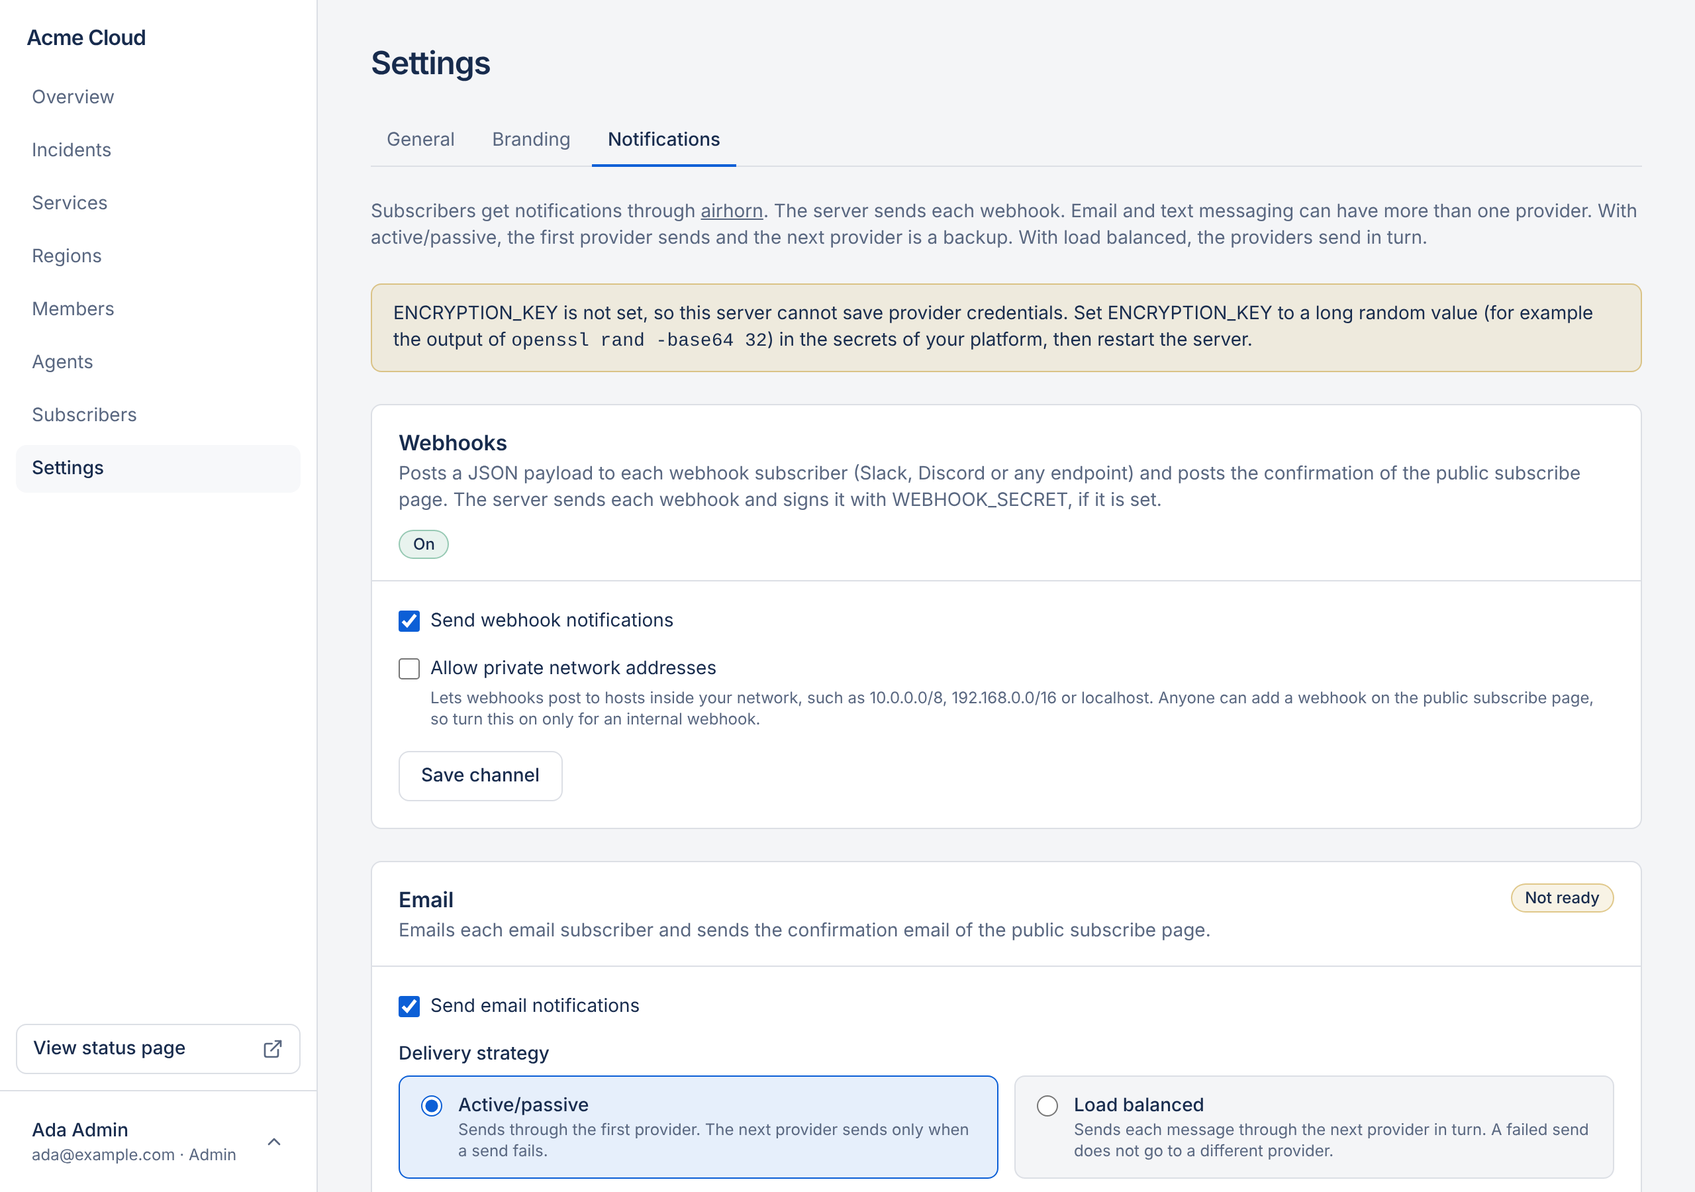
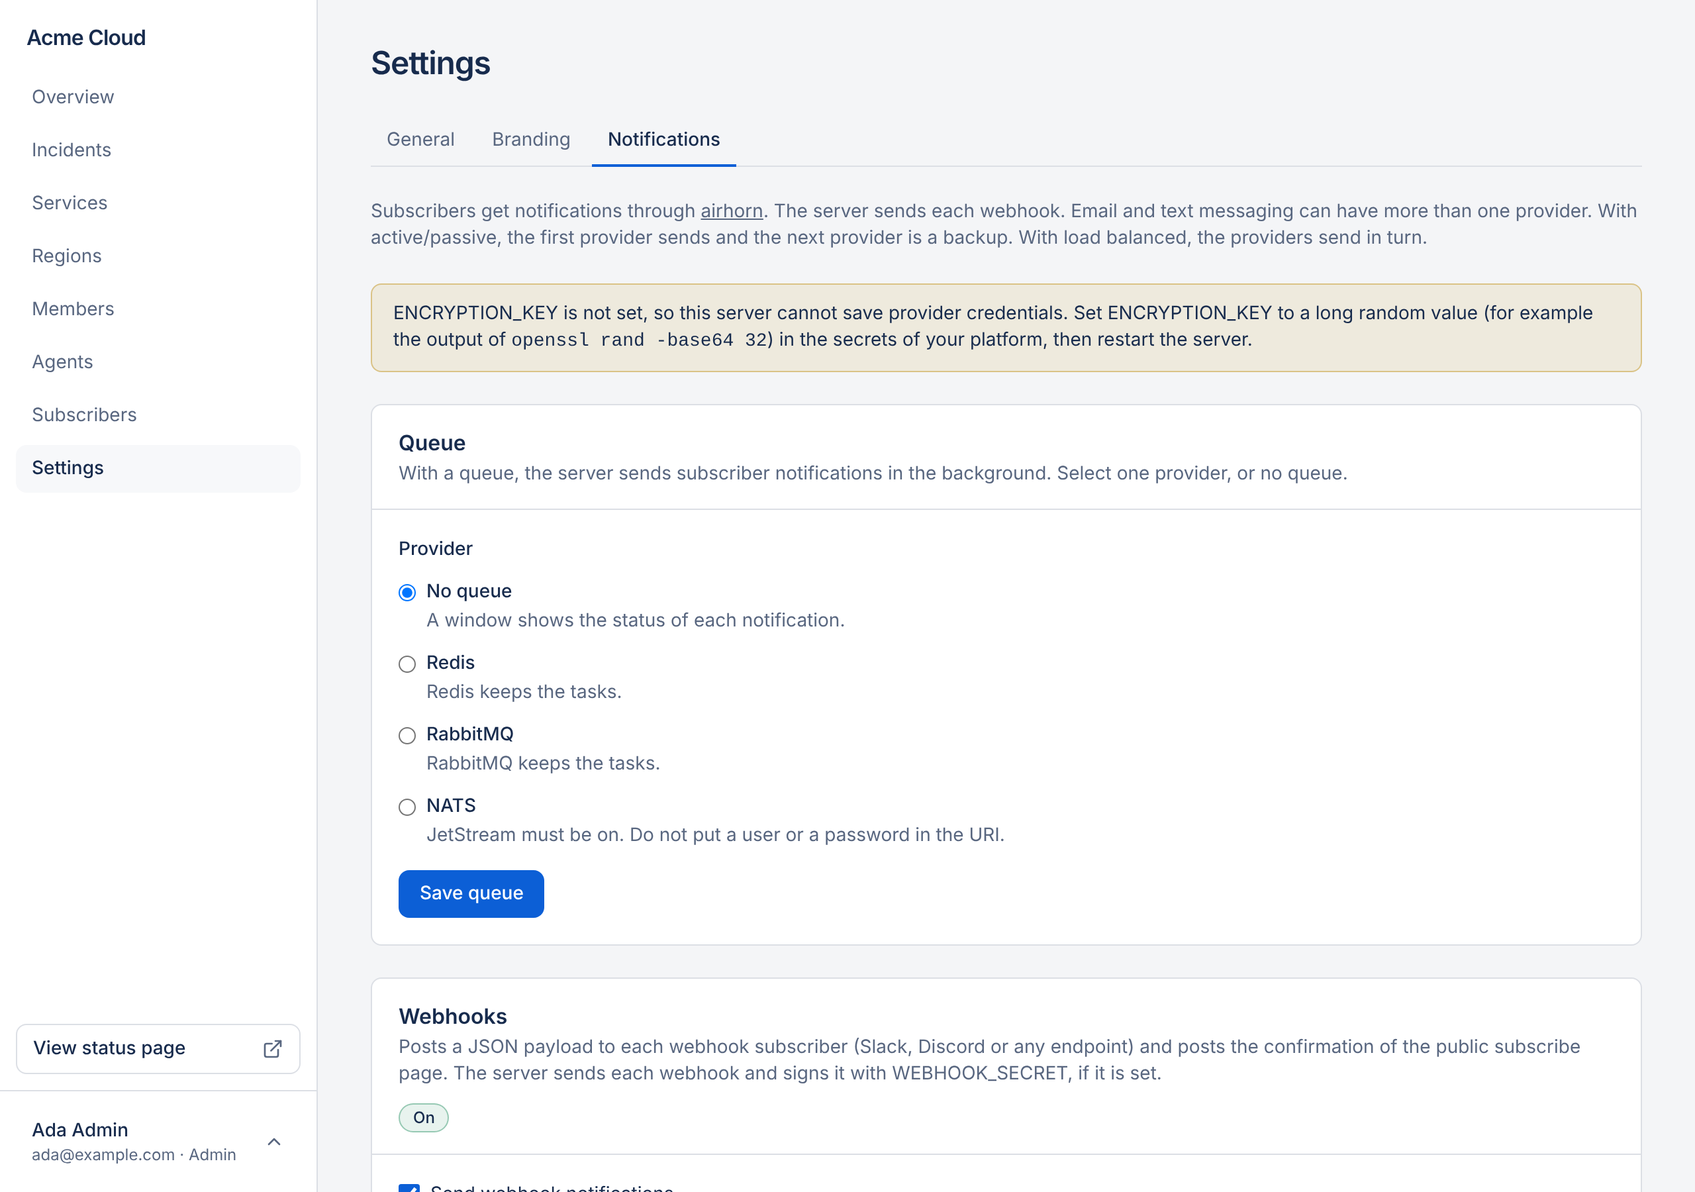
Document the notification queue and the region rules from main
Main added a notification queue (#90) and changed the regions of each
service (#95). The docs now describe both.

- Notification providers, Settings, Incidents and Cloudflare tell how
  to select a Redis, RabbitMQ or NATS queue and how the portal shows
  the send progress.
- The region pages no longer describe Global. When a region exists,
  each affected service needs one or more regions. A region delete
  fails while an open incident needs it.
- The OpenAPI descriptions of the incident regions follow the new
  rules. The copy in the site is new.
- The Notifications screenshot shows the Queue card.

Claude-Session: https://claude.ai/code/session_017rB6hG7aiHwE1nQRMQ2u3D

diff --git a/packages/app/src/lib/public-api.ts b/packages/app/src/lib/public-api.ts
@@ -36,7 +36,9 @@ export const publicIncidentSchema = z
 		impact: impactSchema.describe("The impact of the latest post."),
 		regions: z
 			.array(regionRefSchema)
-			.describe("The regions of the incident. An empty list means Global."),
+			.describe(
+				"The regions of the incident. The list is empty when the page has no regions.",
+			),
 		services: z
 			.array(z.string())
 			.describe("The ids of the affected services that the page shows."),
@@ -45,7 +47,7 @@ export const publicIncidentSchema = z
 				z.object({ serviceId: z.string(), regions: z.array(regionRefSchema) }),
 			)
 			.describe(
-				"The regions of each affected service. A service that is not in the list is Global.",
+				"The regions of each affected service. A service that is not in the list has no region.",
 			),
 		startedAt: timestamp,
 		resolvedAt: timestamp.nullable(),

diff --git a/packages/website/site/docs/getting-started/concepts.md b/packages/website/site/docs/getting-started/concepts.md
@@ -14,8 +14,8 @@ This page gives the meaning of each word that the docs use. The portal, the API 
 | **Service**        | A part of your product that visitors care about, for example "API" or "Dashboard". Each service has a status.                                                                                                                                                                               |
 | **Group**          | A name that puts services together on the status page, for example "Core platform".                                                                                                                                                                                                         |
 | **Service status** | One of `operational`, `degraded_performance`, `partial_outage`, `major_outage` or `under_maintenance`. An open incident or maintenance sets it. An editor can also set it by hand.                                                                                                          |
-| **Region**         | A named area, for example "US East". With regions, the status page shows an Overview tab and a tab for each region. A service in an incident can be in one region, more than one region, or no region.                                                                                      |
-| **Global**         | No region. A Global outage shows only on the Overview tab. A region tab shows an outage only for the services in that region.                                                                                                                                                               |
+| **Region** | A named area, for example "US East". With regions, the status page shows an Overview tab and a tab for each region. When a region exists, each affected service of an incident needs one or more regions. For an outage in all regions, select all regions. |
+| **Overview** | The first tab of a status page with regions. It shows each outage. A region tab shows an outage only for the services in that region. |
 | **Uptime**         | The part of the tracked time that a service was up. A partial outage counts as 30% downtime and a major outage as 100%. Degraded performance and maintenance do not count. The status page shows one bar for each day. The uptime window is 90 days by default, and an admin can change it. |
 
 ## Incidents and maintenance
@@ -48,3 +48,4 @@ This page gives the meaning of each word that the docs use. The portal, the API 
 | **Channel**           | A way to send a notification: webhooks, email or text messages. Each channel has an on/off switch.                                        |
 | **Provider**          | The service that sends email or text messages for a channel: SendGrid, Amazon SES, Twilio or Amazon SNS.                                  |
 | **Delivery strategy** | How a channel with more than one provider sends: active/passive (fail-over) or load balanced (round-robin).                               |
+| **Queue** | An optional Redis, RabbitMQ or NATS service. With a queue, the server sends notifications in the background. |

diff --git a/packages/website/site/docs/guide/services.md b/packages/website/site/docs/guide/services.md
@@ -67,18 +67,18 @@ The portal deletes the service and its uptime history. It also removes the servi
 
 ## About regions
 
-Global is the default region. Global is not a region on the **Regions** page.
-
 - With no regions, the status page is one page.
 - With regions, the status page shows an **Overview** tab and one tab for each region.
 
-Regions belong to each affected service of an incident, not to the service itself. When you declare an incident or post an update, you select the regions of each affected service. A service with no region is Global.
+Regions belong to each affected service of an incident, not to the service itself. When you declare an incident or post an update, you select the regions of each affected service.
+
+When a region exists, each affected service needs one or more regions. For an outage in all regions, select all regions.
 
 The tabs show different data:
 
 - **Overview** shows each outage. It shows the status of each service for all incidents.
 - A region tab shows each service. On a region tab, an incident counts only for a service that has that region.
-- An incident for a Global service shows only on **Overview**.
+- A service with no region shows only on **Overview**. This occurs on an incident from before the first region, or on a closed incident after a region delete.
 - A status that you set by hand shows on all tabs.
 
 ## Add a region
@@ -90,7 +90,7 @@ You must be an editor or an admin.
 3. Optional: type a number in **Order**. A region with a lower number shows first.
 4. Select **Add region**.
 
-A region name can have 80 characters or fewer. Each name must be different. You cannot use the name "Global".
+A region name can have 80 characters or fewer. Each name must be different.
 
 ## Set the regions of an incident
 
@@ -98,7 +98,7 @@ You must be an editor or an admin.
 
 1. Declare an incident, schedule maintenance, or open the post form of an incident.
 2. Select an affected service.
-3. Under "Regions for …", select one or more regions. Select no region for Global.
+3. Under "Regions for …", select one or more regions. For an outage in all regions, select all regions.
 4. Complete the other fields of the form.
 5. Select **Declare incident**, **Schedule maintenance** or **Post update**.
 
@@ -122,4 +122,8 @@ To delete a region, do these steps:
 2. Next to the region, select **Delete**.
 3. In the dialog, select **OK**.
 
-When you delete a region, the portal removes it from each incident. A service that used only that region becomes Global. A service that also used other regions keeps those regions.
+When you delete a region, the portal removes it from each incident. These rules apply:
+
+- A service that also used other regions keeps those regions.
+- When other regions remain, the delete fails if an open incident has a service that uses only this region. Give that service a different region first.
+- On a closed incident, a service that used only this region has no region after the delete.

diff --git a/packages/website/site/docs/agents/workflows.md b/packages/website/site/docs/agents/workflows.md
@@ -45,20 +45,20 @@ An agent publishes directly only when it has `incidents.publish`. It notifies su
 
 ## Regions
 
-Global is the default region. It is not a record. Regions belong to each affected service.
+Regions belong to each affected service.
 
 - Call `list_regions` before you set a region.
 - Pass `serviceRegions` to `create_incident`, `schedule_maintenance`, `post_incident_update`, `draft_notification` or `edit_incident`.
 - Use one entry for each service, for example `[{"serviceId": "svc_api", "regionIds": ["reg_us", "reg_eu"]}]`.
-- For Global, omit the service, or pass an empty `regionIds` list.
-- On an update, `serviceRegions` sets the regions for the services in that list. The other services keep their regions.
-- To make every service Global, pass `[]` or `null` to `edit_incident`.
+- When a region exists, give each affected service one or more regions. There is no Global choice. For an outage in all regions, list all region ids.
+- On an update, `serviceRegions` sets the regions for the services in that list. The other services keep their regions. A service that the update adds needs an entry.
+- On `edit_incident`, `serviceRegions` replaces the regions of every service. Give each service one or more regions.
 - To keep the current regions, omit `serviceRegions` on `edit_incident`.
 - To read one region, pass `regionId` to `get_status`.
 
 With no regions, the status page is one page. With regions, the page shows Overview and a tab for each region. Overview lists every outage. A region tab lists all services, but it shows an outage only for a service that the incident binds to that region.
 
-When you delete a region, a service that used only that region becomes Global. A service that also uses other regions keeps those regions. See [Services and regions](/docs/guide/services/) for the portal.
+When other regions remain, `delete_region` fails if an open incident has a service that uses only that region. Give that service a different region first. On a closed incident, such a service has no region after the delete. A service that also uses other regions keeps those regions. See [Services and regions](/docs/guide/services/) for the portal.
 
 ## How incidents affect services
 

diff --git a/packages/website/site/docs/agents/tools.md b/packages/website/site/docs/agents/tools.md
@@ -31,7 +31,7 @@ At each connection, the server also sends instructions to the agent. They explai
 | ---------------- | ------------- | ---------------------------------------------------------------------------------------------------------------- |
 | `get_status`     | `status.read` | Return the overall status, each visible service with status and uptime, and open incidents and maintenance.      |
 | `list_services`  | `status.read` | List all services in display order, with the hidden services.                                                    |
-| `list_regions`   | `status.read` | List the named regions in display order. Global is not in the list.                                              |
+| `list_regions`   | `status.read` | List the named regions in display order.                                              |
 | `list_incidents` | `status.read` | List incidents and maintenance, newest first. Filter by `kind` and `open`. The `limit` is 1 to 100 (default 20). |
 | `get_incident`   | `status.read` | Return one incident or maintenance with its full timeline. Each update has the title and the impact.             |
 
@@ -47,7 +47,7 @@ Pass `regionId` to `get_status` to read one region. Without `regionId`, the tool
 | `update_region`      | `services.write`      | Rename a region or change its display order.                                                 |
 | `set_service_status` | `services.set_status` | Change the status of a service without an incident. The change goes into the uptime history. |
 | `delete_service`     | `services.delete`     | Delete a service and its status history.                                                     |
-| `delete_region`      | `services.delete`     | Delete a region. A service that used only that region becomes Global.                        |
+| `delete_region`      | `services.delete`     | Delete a region. It fails while an open incident needs it as the only region of a service.                        |
 
 ## Incidents and maintenance
 

diff --git a/packages/website/site/docs/reference/webhooks.md b/packages/website/site/docs/reference/webhooks.md
@@ -73,7 +73,7 @@ An incident or maintenance event:
 | `incident.startedAt`, `incident.resolvedAt`        | The start and the end of an incident. A field without a value is not in the payload.                                                                 |
 | `incident.scheduledStart`, `incident.scheduledEnd` | The window of a maintenance.                                                                                                                         |
 | `incident.services`                                | The affected services, each with its current status.                                                                                                 |
-| `incident.regionIds`                               | The regions of the incident. An empty list means Global.                                                                                             |
+| `incident.regionIds`                               | The regions of the incident. The list is empty when the status page has no regions.                                                                                             |
 | `update`                                           | The post that caused the notification.                                                                                                               |
 | `page`                                             | The name and the URL of the status page.                                                                                                             |
 | `timestamp`                                        | The time of the request.                                                                                                                             |

diff --git a/packages/website/site/docs/guide/incidents.md b/packages/website/site/docs/guide/incidents.md
@@ -34,7 +34,7 @@ You must be an editor or an admin.
 6. Type the first public update in **Message**.
 7. Under **Affected services**, select each service that the incident affects.
 8. Optional: select a status in the list next to a selected service. That status applies to that service only.
-9. Optional: when your status page has regions, select the regions of each selected service. Select no region for Global.
+9. When your status page has regions, select one or more regions for each selected service. For an outage in all regions, select all regions.
 10. Optional: in **Set affected services to**, select a status for all the affected services. **Automatic** uses the impact.
 11. Keep **Notify subscribers** selected to send a notification. Clear it to post without a notification.
 12. Select **Declare incident**.
@@ -72,6 +72,15 @@ You must be an editor or an admin.
 11. Select **Post update**.
 
 A new impact does not change the status of the services that the incident already affects. To change their status, use step 7 or step 8.
+
+### Follow the notifications
+
+When a post notifies subscribers, the portal shows the progress:
+
+- Without a queue, a window shows "Notifications complete" and the state of each notification: **Waiting**, **In progress**, **Sent** or **Failed**.
+- With a queue, the **Dashboard** tab of the incident shows a progress bar and the text "The queue sends the notifications." The bar updates until the queue is done.
+
+An admin selects the queue in **Settings**. See [Select a notification queue](/docs/guide/settings/#select-a-notification-queue).
 
 ## Resolve an incident
 

diff --git a/packages/website/site/docs/operate/notifications.md b/packages/website/site/docs/operate/notifications.md
@@ -51,6 +51,19 @@ Email and text messages need a sender. Set a default sender on the channel, or a
 - To post to a webhook in your own network, turn on **Allow private network addresses** in **Manage → Settings → Notifications → Webhooks**.
 - When `WEBHOOK_SECRET` is set, the server signs each request. Read [Webhooks](/docs/reference/webhooks/) for the payload and the signature.
 
+## Notification queue
+
+An admin selects one queue in **Manage → Settings → Notifications**, or **No queue**.
+
+- With no queue, the server sends the notifications when a member sends them. A window shows the state of each notification: **Waiting**, **In progress**, **Sent** or **Failed**.
+- With a queue, the server sends the notifications in the background. The **Dashboard** tab of the incident shows a progress bar until the queue is done.
+- The queue providers are Redis, RabbitMQ and NATS. Select one. Each provider keeps the tasks.
+- NATS needs JetStream. Do not put a user or a password in the NATS URI.
+- The server keeps the **Connection URI** encrypted with `ENCRYPTION_KEY`. Set the key before you save a queue.
+- The queue runs in the Node.js server. On Cloudflare, the container runs the queue, not the Worker.
+- After a restart, the server continues a job that stopped.
+- If the queue provider cannot load, the server sends the notifications in its own process.
+
 ## Providers from environment variables
 
 A channel without providers uses the providers from environment variables. When you add a provider to a channel in the portal, that channel no longer uses them.

diff --git a/packages/website/site/docs/index.md b/packages/website/site/docs/index.md
@@ -18,7 +18,7 @@ One Next.js server runs all three parts. You can run it on any container host. T
 ## Features
 
 - **Status page:** an overall status banner, active incidents, scheduled maintenance, and grouped services with 90-day uptime bars. It also has the incident history and a page for each incident. An incident page shows the status of each affected service for each minute. The status page has an RSS feed, a public JSON API, and light and dark modes. It works on a phone.
-- **Regions:** add a region when you need one. Each affected service can use one region, more than one region, or no region. No region means Global. With regions, the status page shows an Overview tab and a tab for each region.
+- **Regions:** add a region when you need one. When a region exists, each affected service needs one or more regions. For an outage in all regions, select all regions. With regions, the status page shows an Overview tab and a tab for each region.
 - **Pages for agents:** `/llms.txt`, `/history.md` and `/incidents/{id}.md` give the status page in Markdown. An agent can read them without credentials.
 - **MCP server:** each agent has its own permissions. A new agent can read the status page and write drafts. It cannot publish or notify subscribers until an admin gives it those permissions.
 - **Human review of notifications:** an agent can save a notification as a draft. A person reviews the draft, changes it if necessary, and approves it. Nothing goes out before the approval.

diff --git a/packages/website/site/docs/guide/settings.md b/packages/website/site/docs/guide/settings.md
@@ -58,7 +58,7 @@ The **Notifications** section has one card for each notification channel: **Webh
 
 For each provider and its credentials, see [Notification providers](/docs/operate/notifications/).
 
-![The Notifications section with the channel cards](/images/manage-notifications.png)
+![The Notifications section with the Queue card and the channel cards](/images/manage-notifications.png)
 
 The top right corner of each card shows the state of the channel:
 
@@ -67,6 +67,19 @@ The top right corner of each card shows the state of the channel:
 - **Not ready**: the channel is on, but it has no provider or no sender.
 
 When a channel cannot send, its subscribers get no notifications. The public subscribe page does not offer that channel.
+
+## Select a notification queue
+
+You must be an admin.
+
+With a queue, the server sends subscriber notifications in the background. Without a queue, the server sends them when you post. See [Notification queue](/docs/operate/notifications/#notification-queue).
+
+1. Go to **Settings**, then **Notifications**.
+2. In the **Queue** card, select a **Provider**: Redis, RabbitMQ or NATS. Select **No queue** to send without a queue.
+3. Type the **Connection URI** of the queue, for example `redis://localhost:6379`.
+4. Select **Save queue**.
+
+The portal can save the connection URI only when `ENCRYPTION_KEY` is set on the server.
 
 ## Turn a channel on or off
 

diff --git a/packages/website/site/docs/guide/status-page.md b/packages/website/site/docs/guide/status-page.md
@@ -50,7 +50,7 @@ Some status pages have regions, for example "United States" and "Europe". These 
 - **Overview** shows each outage on all services.
 - A region tab shows the status of the services in that region only. An outage that is not in that region does not show on the tab.
 
-Select a tab to see the status for that region. The history page has the same tabs. On the history page, the first tab has the name **Global**.
+Select a tab to see the status for that region. The history page has the same tabs.
 
 ## Read the active incidents and maintenance
 

diff --git a/packages/website/site/docs/deploy/cloudflare.md b/packages/website/site/docs/deploy/cloudflare.md
@@ -34,6 +34,7 @@ A build without the Docker layer cache, as in CI, gives a new image. So the firs
 The container is a Node.js server, so these items work as on other container hosts:
 
 - Subscriber notifications: webhooks, email and text messages.
+- The notification queue. It runs in the container. A restart continues a job that stopped.
 - A database connection pool in each container.
 - The cache of each container keeps the last known data while the database is offline.
 
